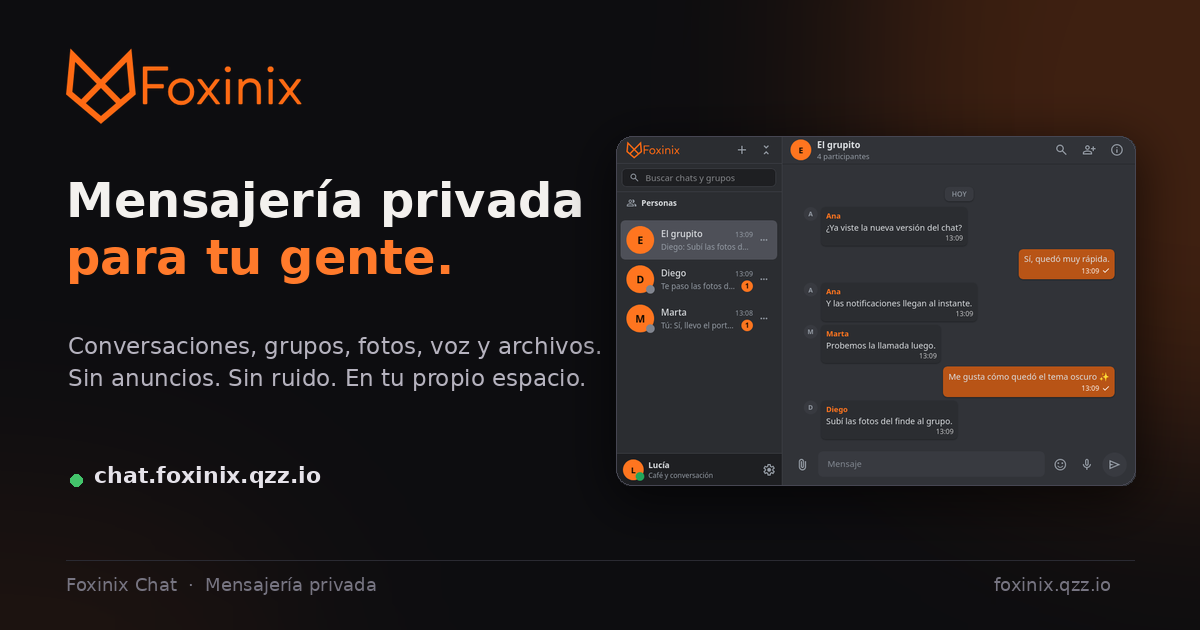
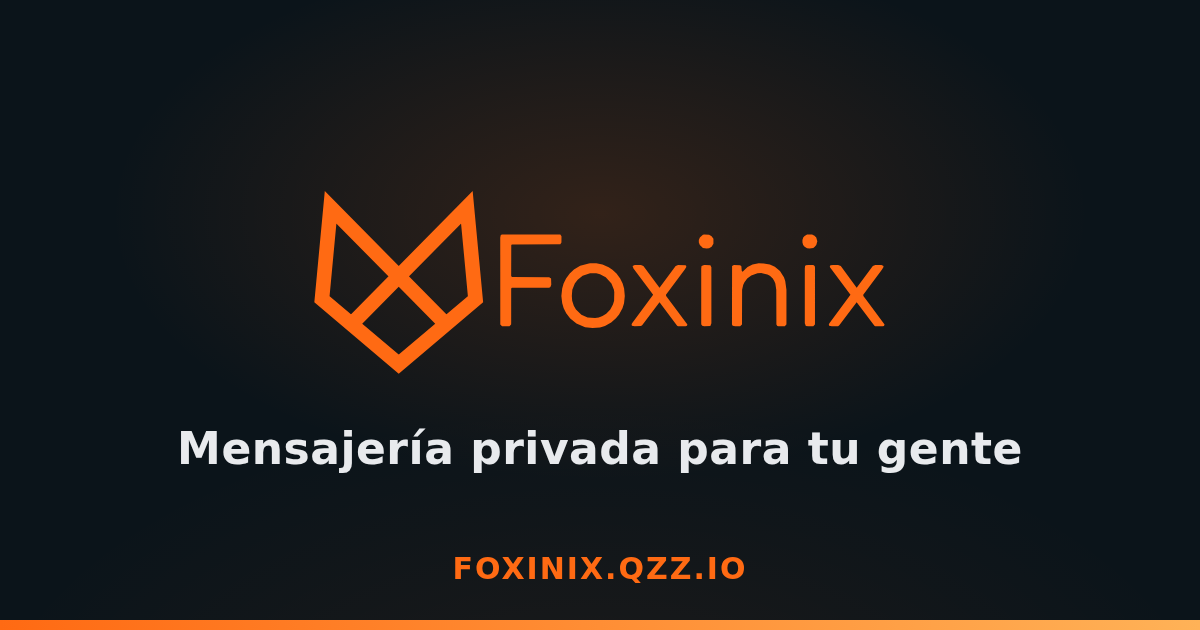
W92: pre-producción — limpieza, marca Foxinix y 404 real
- 404.html: el script W80 solo reescribe rutas SPA conocidas
  (/app /login /register /profile /verify /forgot /reset); cualquier
  otra ruta se queda en el 404 real (antes todo URL inventado
  redirigía a /#... → soft-404 de 200)
- error pages 400-503: favicon-96x96 (roto) → favicon-32x32
- Limpieza: welcome.webp, site.webmanifest, duplicados raíz y
  huérfanos (app-screen, icon.webp, favicon-48x48, icons raíz)
- Marca: 'Foxinix Chat' → 'Foxinix' (terms, 404, styles, app.js);
  título 'Foxinix | Mensajería' (espacio); og.png regenerado 1200×630
  (?v=20261106); sitemap con /app (4 rutas)

Parity con chat/landing verificada: 13 archivos clave idénticos
byte a byte

diff --git a/terms.html b/terms.html
@@ -59,10 +59,10 @@
                 <h1>Términos de Uso</h1>
                 <p class="legal-meta">Última actualización: 20 de octubre de 2026</p>
 
-                <p>Estos términos describen las condiciones para usar Foxinix Chat y esta portada. Al crear una cuenta o utilizar el servicio, aceptas estas condiciones. Si no estás de acuerdo, no uses el chat.</p>
+                <p>Estos términos describen las condiciones para usar Foxinix y esta portada. Al crear una cuenta o utilizar el servicio, aceptas estas condiciones. Si no estás de acuerdo, no uses el chat.</p>
 
                 <h2>1. Descripción del servicio</h2>
-                <p>Foxinix Chat permite conversaciones individuales y grupales, intercambio de mensajes y archivos, y otras funciones de comunicación. Es un proyecto independiente y puede cambiar, ampliarse o interrumpirse con el tiempo.</p>
+                <p>Foxinix permite conversaciones individuales y grupales, intercambio de mensajes y archivos, y otras funciones de comunicación. Es un proyecto independiente y puede cambiar, ampliarse o interrumpirse con el tiempo.</p>
 
                 <h2>2. Tu cuenta</h2>
                 <ul>
@@ -98,7 +98,7 @@
                 <p>Podemos suspender o eliminar una cuenta si incumple estos términos, si existe un riesgo para otras personas o para la seguridad del servicio, o si es necesario por ley. También puedes dejar de usar el servicio y solicitar la eliminación de tu cuenta.</p>
 
                 <h2>9. Responsabilidad</h2>
-                <p>En la medida permitida por la ley, Foxinix Chat no será responsable de daños indirectos, pérdida de datos o perjuicios derivados del uso o de la imposibilidad de usar el servicio. Nada en estos términos limita los derechos que la ley te reconozca de forma imperativa.</p>
+                <p>En la medida permitida por la ley, Foxinix no será responsable de daños indirectos, pérdida de datos o perjuicios derivados del uso o de la imposibilidad de usar el servicio. Nada en estos términos limita los derechos que la ley te reconozca de forma imperativa.</p>
 
                 <h2>10. Cambios en los términos</h2>
                 <p>Podemos actualizar estos términos. Publicaremos la nueva versión en esta página con su fecha. Si el cambio es importante, procuraremos avisarlo en el chat. El uso continuado después de la publicación implica la aceptación de la nueva versión.</p>
@@ -108,7 +108,7 @@
 
                 <a class="legal-back" href="/">
                     <svg class="icon" viewBox="0 0 20 20" aria-hidden="true"><path d="M16 10H5M9 5l-5 5 5 5" fill="none" stroke="currentColor" stroke-width="1.8" stroke-linecap="round" stroke-linejoin="round"/></svg>
-                    Volver a Foxinix Chat
+                    Volver a Foxinix
                 </a>
             </article>
         </div>
@@ -124,7 +124,7 @@
             </div>
 
             <div class="footer-col">
-                <b>Foxinix Chat</b>
+                <b>Foxinix</b>
                 <a href="/app">
                     <svg class="icon" viewBox="0 0 20 20" aria-hidden="true"><path d="M4 10h11M11 5l5 5-5 5" fill="none" stroke="currentColor" stroke-width="1.6" stroke-linecap="round" stroke-linejoin="round"/></svg>
                     Abrir chat

diff --git a/404.html b/404.html
@@ -3,7 +3,7 @@
 <head>
     <meta charset="UTF-8">
     <meta name="viewport" content="width=device-width, initial-scale=1.0">
-    <title>Foxinix Chat</title>
+    <title>Foxinix</title>
     <meta name="theme-color" content="#0d0d10">
     <meta name="robots" content="noindex, follow">
     <link rel="icon" type="image/svg+xml" href="/static/icon.svg">
@@ -14,18 +14,28 @@
 </head>
 <body>
     <script>
-      /* W80: GitHub Pages sirve este 404 para cualquier ruta que no exista.
-         Como la SPA vive en /, /login, /register, /app y usa History API,
-         redirigimos a la ruta base correspondiente para que Vue maneje el
-         routing interno. Si la ruta empieza por /app, /login o /register,
-         la enviamos al index.html de esa carpeta; si no, a la portada. */
+      /* W80/W92: GitHub Pages sirve este 404 para cualquier ruta que no
+         exista. Solo las rutas de la SPA (History API) se reescriben al
+         shell con el hash legacy, para que el router interno las tome.
+         Cualquier OTRA ruta se queda mostrando este 404 real: antes se
+         mandaba a la portada y toda URL inventada devolvía 200 (mal
+         SEO). En producción el servidor ya resuelve las rutas de la
+         SPA antes de llegar aquí; este script solo actúa en GH Pages. */
       (function () {
         var path = window.location.pathname;
-        var target = '/';
-        if (path.indexOf('/app/') === 0 || path === '/app') target = '/app/';
-        else if (path.indexOf('/login') === 0) target = '/login/';
-        else if (path.indexOf('/register') === 0) target = '/register/';
-        window.location.replace(target + window.location.search + '#' + path.slice(1));
+        /* Prefijos de rutas SPA conocidas (ROUTE_PATHS de la SPA). */
+        var spa = ['/app', '/login', '/register', '/profile',
+                   '/verify', '/forgot', '/reset'];
+        for (var i = 0; i < spa.length; i++) {
+          var p = spa[i];
+          if (path === p || path.indexOf(p + '/') === 0) {
+            /* app.html es el shell idéntico de todas las rutas (W91). */
+            window.location.replace('/app.html' + window.location.search +
+                                    '#' + path.slice(1));
+            return;
+          }
+        }
+        /* Ruta desconocida → 404 real, sin rewrite. */
       })();
     </script>
 </body>

diff --git a/index.html b/index.html
@@ -3,7 +3,7 @@
 <head>
     <meta charset="UTF-8">
     <meta name="viewport" content="width=device-width, initial-scale=1.0">
-    <title>Foxinix| Mensajería privada para tu gente</title>
+    <title>Foxinix | Mensajería privada para tu gente</title>
     <meta name="description" content="Foxinix es un espacio de mensajería privado para conversar, compartir y organizarte. Conversaciones, grupos y multimedia, sin anuncios.">
     <meta name="theme-color" content="#0d0d10">
     <meta name="author" content="Foxinix">
@@ -18,14 +18,14 @@
     <meta property="og:url" content="https://foxinix.qzz.io/">
     <meta property="og:title" content="Foxinix | Mensajería privada para tu gente">
     <meta property="og:description" content="Conversaciones, grupos, fotos, voz y archivos en un espacio propio. Sin anuncios y sin ruido.">
-    <meta property="og:image" content="https://foxinix.qzz.io/assets/og.png?v=20261020b">
+    <meta property="og:image" content="https://foxinix.qzz.io/assets/og.png?v=20261106">
     <meta property="og:image:width" content="1200">
     <meta property="og:image:height" content="630">
     <meta property="og:locale" content="es_ES">
     <meta name="twitter:card" content="summary_large_image">
     <meta name="twitter:title" content="Foxinix | Mensajería privada para tu gente">
     <meta name="twitter:description" content="Conversaciones, grupos, fotos, voz y archivos en un espacio propio. Sin anuncios y sin ruido.">
-    <meta name="twitter:image" content="https://foxinix.qzz.io/assets/og.png?v=20261020b">
+    <meta name="twitter:image" content="https://foxinix.qzz.io/assets/og.png?v=20261106">
     <script src="/theme.js"></script>
     <link rel="stylesheet" href="/styles.css">
     <script type="application/ld+json">

diff --git a/503.html b/503.html
@@ -7,7 +7,7 @@
     <title>Foxinix | 503 - Servicio no disponible</title>
     <meta name="description" content="El servidor está temporalmente fuera de servicio. Intenta de nuevo más tarde.">
     <meta name="theme-color" content="#000000">
-    <link rel="icon" type="image/png" sizes="96x96" href="/assets/favicon-96x96.png">
+    <link rel="icon" type="image/png" sizes="96x96" href="/assets/favicon-32x32.png">
     <link rel="icon" href="/favicon.ico" sizes="any">
     <link rel="apple-touch-icon" href="/assets/apple-touch-icon.png">
     

diff --git a/400.html b/400.html
@@ -7,7 +7,7 @@
     <title>Foxinix | 400 - Solicitud incorrecta</title>
     <meta name="description" content="La solicitud no pudo ser procesada debido a una sintaxis incorrecta.">
     <meta name="theme-color" content="#000000">
-    <link rel="icon" type="image/png" sizes="96x96" href="/assets/favicon-96x96.png">
+    <link rel="icon" type="image/png" sizes="96x96" href="/assets/favicon-32x32.png">
     <link rel="icon" href="/favicon.ico" sizes="any">
     <link rel="apple-touch-icon" href="/assets/apple-touch-icon.png">
     

diff --git a/500.html b/500.html
@@ -7,7 +7,7 @@
     <title>Foxinix | 500 - Error interno del servidor</title>
     <meta name="description" content="Hubo un problema en el servidor. Intenta de nuevo más tarde.">
     <meta name="theme-color" content="#000000">
-    <link rel="icon" type="image/png" sizes="96x96" href="/assets/favicon-96x96.png">
+    <link rel="icon" type="image/png" sizes="96x96" href="/assets/favicon-32x32.png">
     <link rel="icon" href="/favicon.ico" sizes="any">
     <link rel="apple-touch-icon" href="/assets/apple-touch-icon.png">
     

diff --git a/502.html b/502.html
@@ -7,7 +7,7 @@
     <title>Foxinix | 502 - Bad Gateway</title>
     <meta name="description" content="El servidor recibió una respuesta inválida de otro servidor.">
     <meta name="theme-color" content="#000000">
-    <link rel="icon" type="image/png" sizes="96x96" href="/assets/favicon-96x96.png">
+    <link rel="icon" type="image/png" sizes="96x96" href="/assets/favicon-32x32.png">
     <link rel="icon" href="/favicon.ico" sizes="any">
     <link rel="apple-touch-icon" href="/assets/apple-touch-icon.png">
     

diff --git a/401.html b/401.html
@@ -7,7 +7,7 @@
     <title>Foxinix | 401 - No autorizado</title>
     <meta name="description" content="Necesitas autenticación para acceder a esta página.">
     <meta name="theme-color" content="#000000">
-    <link rel="icon" type="image/png" sizes="96x96" href="/assets/favicon-96x96.png">
+    <link rel="icon" type="image/png" sizes="96x96" href="/assets/favicon-32x32.png">
     <link rel="icon" href="/favicon.ico" sizes="any">
     <link rel="apple-touch-icon" href="/assets/apple-touch-icon.png">
     

diff --git a/403.html b/403.html
@@ -7,7 +7,7 @@
     <title>Foxinix | 403 - Acceso prohibido</title>
     <meta name="description" content="No tienes permiso para acceder a esta página.">
     <meta name="theme-color" content="#000000">
-    <link rel="icon" type="image/png" sizes="96x96" href="/assets/favicon-96x96.png">
+    <link rel="icon" type="image/png" sizes="96x96" href="/assets/favicon-32x32.png">
     <link rel="icon" href="/favicon.ico" sizes="any">
     <link rel="apple-touch-icon" href="/assets/apple-touch-icon.png">
     

diff --git a/app.js b/app.js
@@ -1,4 +1,4 @@
-/* Foxinix Chat — interacciones mínimas de la portada.
+/* Foxinix — interacciones mínimas de la portada.
    Sin dependencias; pensado para funcionar también en navegadores antiguos. */
 (function () {
     'use strict';

diff --git a/styles.css b/styles.css
@@ -1,4 +1,4 @@
-/* Foxinix Chat — portada pública
+/* Foxinix — portada pública
    Paleta tomada de la app: fondo grafito, acento naranja Foxinix.
    Sin dependencias externas; compatible con Firefox 78. */
 
